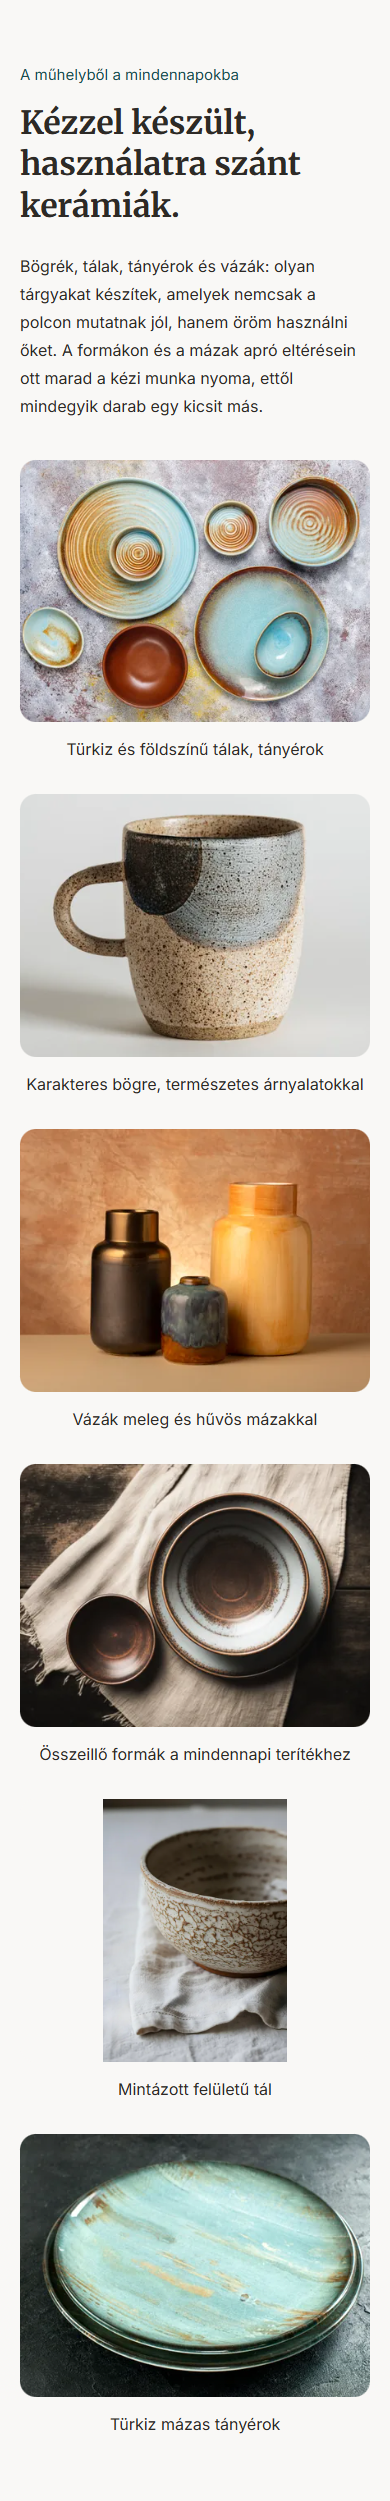
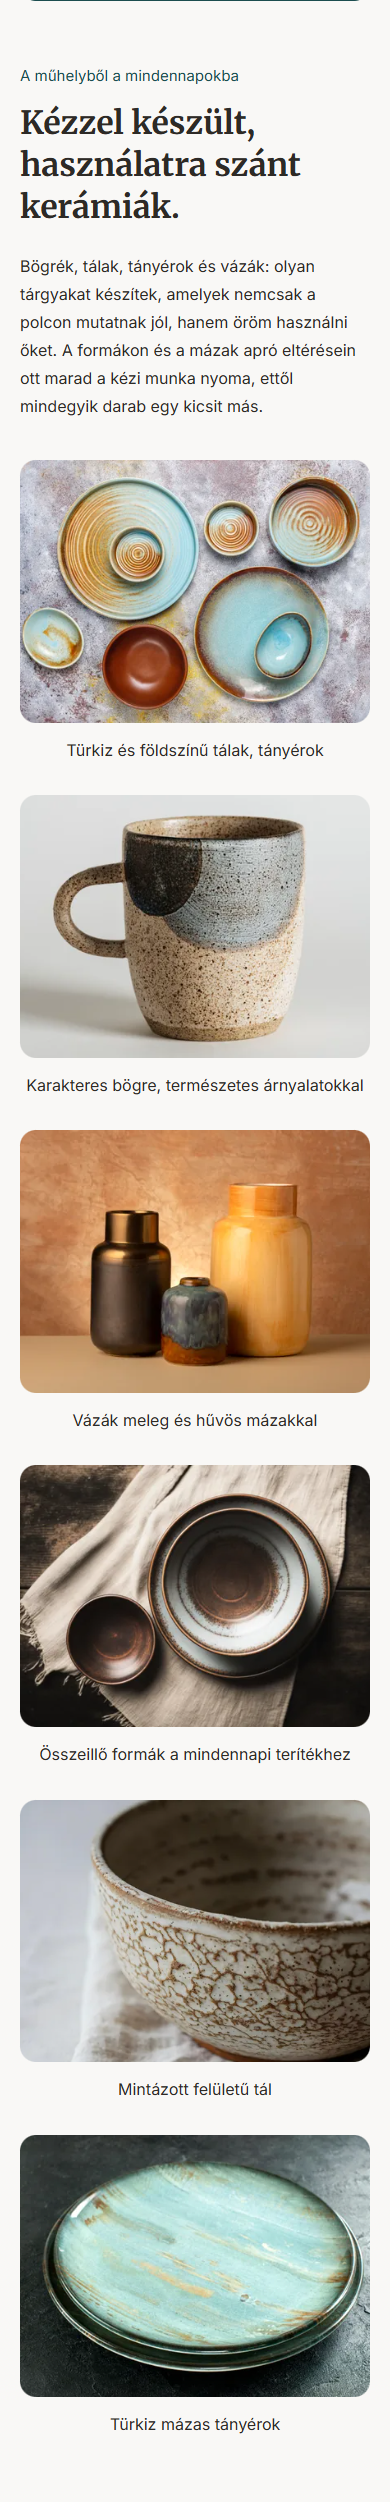
Refine workshop imagery and typography, verify mobile and tablet layouts

diff --git a/muhely.html b/muhely.html
@@ -19,9 +19,9 @@
 <main id="tartalom" tabindex="-1">
 <nav class="wrap breadcrumb" aria-label="Morzsanavigáció"><a href="koncepcio-1-udvari-muhely.html">Kezdőlap</a><span aria-hidden="true">/</span><span aria-current="page">Műhely</span></nav>
 <section class="wrap hero workshop-hero" aria-labelledby="muhely-cim"><div><p class="eyebrow">Ahol az ötleteid formát öltenek</p><h1 id="muhely-cim">Ismerd meg a műhelyt, ahol az alkotás öröme vár.</h1><p class="intro">Fehér Dóra vagyok, az Agyagpad alapítója. Szentendrei műhelyemben megmutatom, hogyan válhat egy darab agyagból saját alkotás és személyes emlék. Barátságos környezetben, szakmai segítséggel, a saját tempódban ismerkedhetsz meg a kerámiakészítéssel.</p><div class="actions"><a class="button" href="tanfolyamok.html">Megnézem a tanfolyamokat</a></div></div><figure class="photo-surround"><img class="photo hero-photo" src="images/webp/muhely-hero-800.webp" srcset="images/webp/muhely-hero-480.webp 480w, images/webp/muhely-hero-800.webp 800w, images/webp/muhely-hero-1200.webp 1200w, images/webp/muhely-hero-1600.webp 1600w" sizes="(min-width:600px) 870px, calc((100vw - 40px) * 1.875)" width="4784" height="3193" alt="Fehér Dóra kalapban, mindkét kezével vázát formáz a korongon." fetchpriority="high" decoding="async"><svg class="pottery-lines" viewBox="0 0 120 80" fill="none" stroke="currentColor" stroke-width="1.5" aria-hidden="true" focusable="false"><ellipse cx="60" cy="40" rx="52" ry="25"/><ellipse cx="60" cy="40" rx="40" ry="18"/><ellipse cx="60" cy="40" rx="27" ry="11"/></svg></figure></section>
-<section class="workshop-section workshop-story" aria-labelledby="tortenet-cim"><div class="wrap split-layout"><figure><img class="photo story-bowl" src="images/webp/muhely-kezben-tal-800.webp" srcset="images/webp/muhely-kezben-tal-480.webp 480w, images/webp/muhely-kezben-tal-800.webp 800w, images/webp/muhely-kezben-tal-1200.webp 1200w, images/webp/muhely-kezben-tal-1600.webp 1600w" sizes="(min-width:1296px) 576px, (min-width:900px) 44vw, calc(100vw - 40px)" width="3925" height="2685" alt="Két kéz egy kézzel formált, korongnyomokat őrző agyagtálat tart." loading="lazy" decoding="async"></figure><div class="workshop-copy"><p class="eyebrow">Kíváncsiságból hivatás</p><h2 id="tortenet-cim">Az alkotás szeretetét adom tovább.</h2><p>2009-ben sajátítottam el a korongozás alapjait. Már az első alkalmakon magával ragadott, ahogyan az agyag minden apró mozdulatra reagál. Azóta is folyamatosan képzem magam, új formákkal és mázakkal kísérletezem.</p><p>Népi iparművészként olyan használati tárgyakat készítek, amelyeknek helyük van a mindennapokban. Egy kézbe simuló bögre vagy egy kedvenc tál számomra attól különleges, hogy használat közben válik igazán a történetünk részévé.</p><p>Az Agyagpadot azért hoztam létre, hogy ezt az örömöt másokkal is megoszthassam. Szeretem látni, ahogy a kezdeti bizonytalanságot felváltja a kíváncsiság, majd megszületik az első saját forma.</p><dl class="studio-stats"><div><dt>szakmai tapasztalat</dt><dd>15+ év</dd></div><div><dt>tanítvány</dt><dd>1500+</dd></div><div><dt>alkotás</dt><dd>7000+</dd></div></dl></div></div></section>
+<section class="workshop-section workshop-story" aria-labelledby="tortenet-cim"><div class="wrap split-layout"><figure><img class="photo story-bowl" src="images/webp/muhely-kezben-tal-800.webp" srcset="images/webp/muhely-kezben-tal-480.webp 480w, images/webp/muhely-kezben-tal-800.webp 800w, images/webp/muhely-kezben-tal-1200.webp 1200w, images/webp/muhely-kezben-tal-1600.webp 1600w" sizes="(min-width:1296px) 576px, (min-width:900px) 44vw, calc(100vw - 40px)" width="3925" height="2685" alt="Kézben tartott, világos mázas kerámiatál." loading="lazy" decoding="async"></figure><div class="workshop-copy"><p class="eyebrow">Kíváncsiságból hivatás</p><h2 id="tortenet-cim">Az alkotás szeretetét adom tovább.</h2><p>2009-ben sajátítottam el a korongozás alapjait. Már az első alkalmakon magával ragadott, ahogyan az agyag minden apró mozdulatra reagál. Azóta is folyamatosan képzem magam, új formákkal és mázakkal kísérletezem.</p><p>Népi iparművészként olyan használati tárgyakat készítek, amelyeknek helyük van a mindennapokban. Egy kézbe simuló bögre vagy egy kedvenc tál számomra attól különleges, hogy használat közben válik igazán a történetünk részévé.</p><p>Az Agyagpadot azért hoztam létre, hogy ezt az örömöt másokkal is megoszthassam. Szeretem látni, ahogy a kezdeti bizonytalanságot felváltja a kíváncsiság, majd megszületik az első saját forma.</p><dl class="studio-stats"><div><dt>szakmai tapasztalat</dt><dd>15+ év</dd></div><div><dt>tanítvány</dt><dd>1500+</dd></div><div><dt>alkotás</dt><dd>7000+</dd></div></dl></div></div></section>
 <section class="workshop-section workshop-room" aria-labelledby="korulnezes-cim"><div class="wrap split-layout"><div class="workshop-copy"><p class="eyebrow">Nézz körül az Agyagpadban</p><h2 id="korulnezes-cim">Egy hely, ahol jó elidőzni.</h2><p>Korongok, agyagos eszközök, száradó edények és kész kerámiák: a műhelyben minden az alkotás körül forog. Itt közelről is megismerheted, hogyan lesz a puha agyagból formázás, szárítás és égetés után használható tárgy.</p><p>A foglalkozásokra előkészítem az alapanyagokat és az eszközöket. Érkezz kényelmes ruhában, amelyen egy kis agyagfolt sem gond, és engedd meg magadnak, hogy egy időre csak arra figyelj, ami a kezed alatt formálódik.</p></div><div class="room-photos"><figure class="room-main"><img class="photo " src="images/webp/muhely-polc-800.webp" srcset="images/webp/muhely-polc-480.webp 480w, images/webp/muhely-polc-800.webp 800w, images/webp/muhely-polc-1200.webp 1200w, images/webp/muhely-polc-1600.webp 1600w" sizes="(min-width:1296px) 576px, (min-width:900px) 44vw, calc(100vw - 40px)" width="5348" height="3565" alt="Műhelypolc bögrékkel, tányérokkal és száradó agyagedényekkel." loading="lazy" decoding="async"></figure><figure class="room-detail"><img class="photo " src="images/webp/muhely-korongozas-800.webp" srcset="images/webp/muhely-korongozas-480.webp 480w, images/webp/muhely-korongozas-800.webp 800w, images/webp/muhely-korongozas-1200.webp 1200w, images/webp/muhely-korongozas-1600.webp 1600w" sizes="(min-width:1296px) 320px, (min-width:900px) 25vw, calc(100vw - 40px)" width="6014" height="4010" alt="Agyagos kezek egy tál peremét formálják a fazekaskorongon." loading="lazy" decoding="async"></figure></div></div></section>
-<section class="workshop-attention" aria-labelledby="figyelem-cim"><div class="wrap attention-panel"><p class="eyebrow">Nem kell elsőre tökéletesnek lennie</p><h2 id="figyelem-cim">Az első mozdulatoktól <span class="title-line">melletted vagyok.</span></h2><div class="attention-grid"><div><h3>Bátran kezdhetsz bele.</h3><p>Nem szükséges előképzettség. Megmutatom az alapokat, <span class="desktop-line">és segítek, amikor elakadnál.</span></p></div><div><h3>Jut idő a kérdéseidre.</h3><p>A kezdő foglalkozásokon legfeljebb <span class="desktop-line">hatan alkotunk, így mindenkire jut <span class="desktop-line">személyes figyelem.</span></span></p></div><div><h3>A saját tempódban haladhatsz.</h3><p>Van helye a próbálkozásnak és az újrakezdésnek. Nem kell másokhoz mérned a munkádat.</p></div></div></div></section>
+<section class="workshop-attention" aria-labelledby="figyelem-cim"><div class="wrap attention-panel"><p class="eyebrow">Nem kell elsőre tökéletesnek lennie</p><h2 id="figyelem-cim">Az első mozdulatoktól <span class="title-line">melletted vagyok.</span></h2><div class="attention-grid"><div><h3>Bátran kezdhetsz bele.</h3><p>Nem szükséges előképzettség. <span class="desktop-line">Megmutatom az alapokat, <span class="desktop-line">és segítek, amikor elakadnál.</span></span></p></div><div><h3>Jut idő a kérdéseidre.</h3><p>A kezdő foglalkozásokon legfeljebb <span class="desktop-line">hatan alkotunk, így mindenkire jut <span class="desktop-line">személyes figyelem.</span></span></p></div><div><h3>A saját tempódban haladhatsz.</h3><p>Van helye a próbálkozásnak és az újrakezdésnek. Nem kell másokhoz <span class="keep-together">mérned a munkádat.</span></p></div></div></div></section>
 <section class="workshop-section workshop-gallery" id="keramiak" aria-labelledby="keramiak-cim"><div class="wrap"><header class="workshop-copy gallery-heading"><p class="eyebrow">A műhelyből a mindennapokba</p><h2 id="keramiak-cim">Kézzel készült, használatra szánt kerámiák.</h2><p>Bögrék, tálak, tányérok és vázák: olyan tárgyakat készítek, amelyek nemcsak a polcon mutatnak jól, hanem öröm használni őket. A formákon és a mázak apró eltérésein ott marad a kézi munka nyoma, ettől mindegyik darab egy kicsit más.</p></header><div class="ceramics-gallery"><figure><a class="gallery-open" href="images/webp/muhely-talak-tanyerok-1920.webp" data-gallery-link aria-label="Teljes fotó megnyitása: Türkiz és földszínű tálak, tányérok" aria-describedby="keramia-1-caption"><img class="photo " src="images/webp/muhely-talak-tanyerok-800.webp" srcset="images/webp/muhely-talak-tanyerok-480.webp 480w, images/webp/muhely-talak-tanyerok-800.webp 800w, images/webp/muhely-talak-tanyerok-1200.webp 1200w, images/webp/muhely-talak-tanyerok-1600.webp 1600w" sizes="(min-width:1296px) 384px, (min-width:1024px) 30vw, (min-width:600px) 45vw, calc(100vw - 40px)" width="5838" height="3893" alt="Különböző méretű türkiz és földszínű tálak, tányérok felülnézetben." loading="lazy" decoding="async"></a><figcaption id="keramia-1-caption">Türkiz és földszínű tálak, tányérok</figcaption></figure>
 <figure><a class="gallery-open" href="images/webp/muhely-pettyes-bogre-1920.webp" data-gallery-link aria-label="Teljes fotó megnyitása: Karakteres bögre, természetes árnyalatokkal" aria-describedby="keramia-2-caption"><img class="photo " src="images/webp/muhely-pettyes-bogre-800.webp" srcset="images/webp/muhely-pettyes-bogre-480.webp 480w, images/webp/muhely-pettyes-bogre-800.webp 800w, images/webp/muhely-pettyes-bogre-1200.webp 1200w, images/webp/muhely-pettyes-bogre-1600.webp 1600w" sizes="(min-width:1296px) 384px, (min-width:1024px) 30vw, (min-width:600px) 45vw, calc(100vw - 40px)" width="6517" height="4344" alt="Füles kerámiabögre pettyezett bézs felülettel és szürkéskék mázzal." loading="lazy" decoding="async"></a><figcaption id="keramia-2-caption">Karakteres bögre, természetes árnyalatokkal</figcaption></figure>
 <figure><a class="gallery-open" href="images/webp/muhely-vazak-1920.webp" data-gallery-link aria-label="Teljes fotó megnyitása: Vázák meleg és hűvös mázakkal" aria-describedby="keramia-3-caption"><img class="photo " src="images/webp/muhely-vazak-800.webp" srcset="images/webp/muhely-vazak-480.webp 480w, images/webp/muhely-vazak-800.webp 800w, images/webp/muhely-vazak-1200.webp 1200w, images/webp/muhely-vazak-1600.webp 1600w" sizes="(min-width:1296px) 384px, (min-width:1024px) 30vw, (min-width:600px) 45vw, calc(100vw - 40px)" width="5374" height="3583" alt="Három váza: sötétbarna, türkizes és meleg sárga mázzal." loading="lazy" decoding="async"></a><figcaption id="keramia-3-caption">Vázák meleg és hűvös mázakkal</figcaption></figure>

diff --git a/assets/muhely.css b/assets/muhely.css
@@ -16,12 +16,16 @@
 .workshop-page .room-photos img{aspect-ratio:3/2;object-fit:cover}
 .workshop-page .room-main img{object-position:50% 50%}
 .workshop-page .room-detail img{object-position:50% 45%}
+.workshop-page .room-detail{border:4px solid var(--paper);border-radius:calc(1rem + 4px)}
 .workshop-page .workshop-attention{padding-block:0}
 .workshop-page .attention-panel{padding:1.5rem;background:var(--teal);color:var(--paper);border-radius:1rem}
 .workshop-page .attention-panel h2,.workshop-page .attention-panel h3,.workshop-page .attention-panel .eyebrow{color:var(--paper)}
 .workshop-page .attention-panel h2{max-width:27ch}
 .workshop-page .title-line{display:block}
 .workshop-page .desktop-line{display:inline}
+.workshop-page .attention-grid>div{container-type:inline-size}
+.workshop-page .keep-together{white-space:normal}
+@container(min-width:11rem){.workshop-page .keep-together{white-space:nowrap}}
 .workshop-page .attention-grid{display:grid;grid-template-columns:minmax(0,1fr);gap:2rem;margin-top:2rem}
 .workshop-page .attention-grid h3{font-size:1.25rem;margin-bottom:.75rem}
 .workshop-page .attention-grid p{font-size:1rem;line-height:1.75}
@@ -29,7 +33,7 @@
 .workshop-page .gallery-heading h2{max-width:25ch}
 .workshop-page .ceramics-gallery{grid-template-columns:minmax(0,1fr);gap:2rem}
 .workshop-page .ceramics-gallery img{width:100%;aspect-ratio:4/3;object-fit:cover;object-position:50% 50%}
-.workshop-page .ceramics-gallery .gallery-bowl{object-fit:contain;background:var(--paper)}
+.workshop-page .ceramics-gallery .gallery-bowl{object-fit:cover;object-position:50% 30%}
 .workshop-page .ceramics-gallery figcaption{margin-top:.875rem;font-size:1rem;text-align:center}
 .workshop-page .gallery-open{display:block;border-radius:1rem;cursor:zoom-in}
 .workshop-page .gallery-open:hover{outline:2px solid var(--clay);outline-offset:4px}
@@ -55,9 +59,9 @@
  .workshop-page .workshop-hero{grid-template-columns:minmax(0,1.1fr) minmax(0,.9fr)}
  .workshop-page .workshop-hero .photo-surround{justify-self:end}
  .workshop-page .split-layout{grid-template-columns:repeat(2,minmax(0,1fr));gap:3rem}
- .workshop-page .room-photos{grid-template-columns:.7fr 1fr}
+ .workshop-page .room-photos{grid-template-columns:.7fr 1fr;gap:0}
  .workshop-page .room-main{grid-column:1 / -1}
- .workshop-page .room-detail{grid-column:2}
+ .workshop-page .room-detail{grid-column:1 / -1;justify-self:start;width:58%;margin-top:-2.5rem;z-index:1}
  .workshop-page .attention-panel{padding:3rem}
  .workshop-page .attention-grid{grid-template-columns:repeat(3,minmax(0,1fr));gap:2rem;margin-top:2.5rem}
  .workshop-page .ending-layout{grid-template-columns:minmax(0,1fr) auto;gap:3rem}

diff --git a/koncepcio-1-udvari-muhely.html b/koncepcio-1-udvari-muhely.html
@@ -16,7 +16,7 @@
       <a class="brand" href="#kezdo" aria-label="Agyagpad kezdőlap"><img src="images/logo/Agyagpad-logo-transparent.svg" width="1137" height="285" alt=""></a>
       <button class="menu" type="button" aria-controls="oldalmenu" aria-expanded="false"><span class="menu-icon" aria-hidden="true"></span><span class="menu-label">Menü</span></button>
       <div class="nav-group" id="oldalmenu">
-        <nav class="site-nav" aria-label="Fő navigáció"><a href="#kezdo">Kezdőlap</a><a href="tanfolyamok.html">Tanfolyamok</a><a href="#muhely">Műhely</a><a href="#kapcsolat">Kapcsolat</a></nav>
+        <nav class="site-nav" aria-label="Fő navigáció"><a href="#kezdo">Kezdőlap</a><a href="tanfolyamok.html">Tanfolyamok</a><a href="muhely.html">Műhely</a><a href="#kapcsolat">Kapcsolat</a></nav>
         <a class="button header-cta" href="#kapcsolat">Érdeklődöm</a>
       </div>
     </div>

diff --git a/adatkezeles.html b/adatkezeles.html
@@ -25,7 +25,7 @@
         <nav class="site-nav" aria-label="Fő navigáció">
 <a href="koncepcio-1-udvari-muhely.html#kezdo">Kezdőlap</a>
 <a href="tanfolyamok.html">Tanfolyamok</a>
-<a href="koncepcio-1-udvari-muhely.html#muhely">Műhely</a>
+<a href="muhely.html">Műhely</a>
 <a href="koncepcio-1-udvari-muhely.html#kapcsolat">Kapcsolat</a>
 </nav>
         <a class="button header-cta" href="koncepcio-1-udvari-muhely.html#kapcsolat">Érdeklődöm</a>

diff --git a/tanfolyamok.html b/tanfolyamok.html
@@ -25,7 +25,7 @@
         <nav class="site-nav" aria-label="Fő navigáció">
 <a href="koncepcio-1-udvari-muhely.html#kezdo">Kezdőlap</a>
 <a href="tanfolyamok.html" aria-current="page">Tanfolyamok</a>
-<a href="koncepcio-1-udvari-muhely.html#muhely">Műhely</a>
+<a href="muhely.html">Műhely</a>
 <a href="#kapcsolat">Kapcsolat</a>
 </nav>
         <a class="button header-cta" href="#kapcsolat">Érdeklődöm</a>

diff --git a/tervezes/muhely-terv.md b/tervezes/muhely-terv.md
@@ -13,7 +13,7 @@ Az új elrendezés az assets/muhely.css fájlba került. A nagyító működése
 1. Közös fejléc, aktív Műhely menüpont. Érdeklődöm → koncepcio-1-udvari-muhely.html#kapcsolat. Diszkrét Kezdőlap / Műhely morzsamenü.
 2. Személyes hero: szöveg balra, hero1 fotó jobbra; terrakotta H1, türkiz kicker, egyetlen türkiz keret és köríves motívum. CTA → tanfolyamok.html.
 3. Dóra története: bézs felületen balra a kézben tartott tál, jobbra a három bekezdés. A 15+ év, 1500+, 7000+ számhármas a szöveg alatt, ezen az oldalon egyszer szerepel.
-4. Műhelybemutató: törtfehér felület, balra szöveg, jobbra domináns polcfotó és kisebb korongozási részlet. A két kép egymást és a szöveget nem takarja; mobilon egymás alá kerülnek.
+4. Műhelybemutató: törtfehér felület, balra szöveg, jobbra domináns polcfotó és kisebb korongozási részlet. Asztalon a kisebb kép 40 px-rel ráfed a polcfotó alsó bal előterére, a képoszlopon belül, a hangsúlyos tárgyakat szabadon hagyva. Törtfehér, 4 px-es keretet kap; 900 px alatt a képek átfedés nélkül követik egymást.
 5. Személyes figyelem: közös türkiz blokk törtfehér tipográfiával, három állítás, képek és belső kártyák nélkül. Asztalon három, kisebb kijelzőn egy oszlop.
 6. Alkotások: megőrzött #keramiak horgony. Hat kész tárgyfotó a kért sorrendben, képaláírásokkal, árak és vásárlási gombok nélkül. 1024 px-től három, 600 px-től kettő, alatta egy oszlop.
 7. Most rajtad a sor: rövid, bézs hátterű lezárás; CTA → tanfolyamok.html.
@@ -40,7 +40,7 @@ Mindegyikhez 480, 800, 1200 és 1600 px széles, teljes eredeti képarányú Web
 
 A hero 4:5 képhelyet használ, teljes forrásmagassággal, 30%-os vízszintes tárgypozícióval. Csak oldalt vágunk; a kalapból az eredeti fotón látható rész, az arc, mindkét kéz és a váza megmarad. A képfelbontás kiválasztása a portréhely kitöltéséhez szükséges forrásszélességgel számol. Nincs sötétítés.
 
-A galéria keretei egységesen 4:3 arányúak. A bögre és vázák természetesen elférnek a kivágásban. A mintázott tál álló fotóját contain kitöltés tartja teljes egészében láthatóan, a meglévő törtfehér háttéren. Nincs további türkiz galériadekoráció.
+A galéria keretei egységesen 4:3 arányúak. A bögre és vázák természetesen elférnek a kivágásban. A mintázott tál álló fotója is cover kitöltéssel tölti ki a 4:3 keretet, 50% 30% tárgypozícióval. A kivágás a peremet, az ívelt falat és a jellegzetes mintázatot emeli ki; nagyításkor a teljes álló fotó jelenik meg. Nincs további türkiz galériadekoráció.
 
 ## Nagyító és billentyűzet
 
@@ -55,3 +55,13 @@ Friss képek: beadas/jelenlegi-oldal/muhely-asztali.png, muhely-mobil.png, muhel
 ## Böngészőmegjegyzések szerinti tipográfiai pontosítás
 
 A figyelemblokk címében a „melletted vagyok.” új sorban indul. Asztalon az „és segítek”, a „hatan” és a „személyes” szintén új sorban kezdődik; a lezárásban a második, kisbetűs „akár” került új sorba. A bekezdések célzott sortörései 900 px alatt inline-ra váltanak, így mobilon természetes marad a tördelés. A galéria mind a hat képaláírása középre igazított. Szöveg, kép, navigáció és nagyítóműködés nem változott. A módosítás az eredeti 1254 px-es nézetben és kisebb kijelzőkön is ellenőrzött.
+
+A közös fejléc Műhely menüpontja minden aktív oldalon a muhely.html aloldalra vezet. A főoldali #muhely rövid bemutatkozó szakasz és a hozzá tartozó belső hivatkozások megmaradnak.
+
+## Célzott képfinomítás
+
+A történetnél használt hangulatkép alternatív szövege: „Kézben tartott, világos mázas kerámiatál.” A hero címe, fotója és elrendezése változatlan. A tálfotó kitöltő kivágása és a műhelyfotók kompaktabb, átfedő elrendezése 390, 768, 1024 és 1440 px-en vizuálisan is ellenőrzött; a nagyító változatlanul a teljes, eredeti képarányú WebP-t mutatja.
+
+A figyelemblokkban a Megmutatom az alapokat új sorban indul asztalon; a mérned a munkádat kifejezés egy sorban marad, ha a rendelkezésre álló szélesség engedi. Erősen nagyított mobilnézetben szabadon törhet a túlcsordulás elkerülésére.
+
+Végső reszponzív arányellenőrzés: tíz nézet sikeres, az álló és fekvő tabletelrendezés vizuálisan is ellenőrizve. A 768 és 1024 px-es teljes oldalképek a beadas/jelenlegi-oldal/muhely-tablet-allo.png és muhely-tablet-fekvo.png fájlokba kerültek. További designmódosítás nem volt szükséges.

diff --git a/tervezes/design-system.md b/tervezes/design-system.md
@@ -1,6 +1,6 @@
 # Agyagpad – design system
 
-Verzió: 4.12 · 2026. november 14.
+Verzió: 4.13 · 2026. november 14.
 Állapot: az Udvari műhely aktuális specifikációja. Kiindulás: a jóváhagyott 16527e0 változat; november 14-i tartalmi továbbfejlesztés, kártyaélménysorok, Dóra-számadatok és előkészített valódi űrlapküldés. A korábbi türkiz gombos irányt ez a dokumentum felülírja.
 
 ## Források és hatókör
@@ -185,4 +185,6 @@ Az asztali programsorok közös, a leghosszabb szöveghez növekvő rácssormaga
 
 A személyes Műhely oldal megtartja az arculati hat színt, a Merriweather–Inter betűpárt, 1200 px tartalmi maximumot és a közös fejlécet/láblécet. Saját stíluslapja assets/muhely.css; a főoldal és a Tanfolyamok stílusai változatlanok. Hat szakasz, változatos kép–szöveg sorrend, bézs történet és lezárás, türkiz személyes figyelemblokk. Szakasztérköz: a meglévő 64/96 px változó; hasábköz: 40/48 px. A Dóra-számhármas egyszer szerepel. A türkiz hero-keret és motívum csak a herónál jelenik meg.
 
-Galéria: 4:3 keretek, 32 px rések, 1024 px-től három, 600 px-től kettő, alatta egy oszlop. A mintázott álló tálfotó contain kitöltéssel teljes egészében megmarad; a többi fotó ellenőrzött cover kivágású. Nincs statikus dekoratív galériakeret. A natív dialog a teljes, 1920 px-es WebP-ket mutatja vágás nélkül, bezárógombbal, Escape-kezeléssel és visszaadott fókusszal. A háttér ugyanannak a grafitszínnek az áttetsző változata. Részletes terv és pontos forráslista: muhely-terv.md. Szövegek: muhely-szovegek.md.
+Galéria: 4:3 keretek, 32 px rések, 1024 px-től három, 600 px-től kettő, alatta egy oszlop. A mintázott álló tálfotó is cover kitöltésű, 50% 30% tárgypozícióval; nagyítóban változatlanul teljes képaránnyal látható. Nincs statikus dekoratív galériakeret. A natív dialog a teljes, 1920 px-es WebP-ket mutatja vágás nélkül, bezárógombbal, Escape-kezeléssel és visszaadott fókusszal. A háttér ugyanannak a grafitszínnek az áttetsző változata. Részletes terv és pontos forráslista: muhely-terv.md. Szövegek: muhely-szovegek.md.
+
+Műhelyfotók célzott finomítása: a kisebb korongozós kép 900 px-től 40 px átfedést kap a nagy polcfotó alsó bal előterén, 58%-os szélességgel és 4 px-es törtfehér kerettel. A képpár a képoszlopon belül marad; keskenyebb nézetben átfedés nélkül, 16 px közökkel követik egymást. A herót és a többi szakaszt ez a módosítás nem érinti.

diff --git a/tervezes/aktualis-oldalterkep.md b/tervezes/aktualis-oldalterkep.md
@@ -36,3 +36,5 @@ Az adatkezelési oldal a még inaktív fogadót és a tényleges üzemeltetői a
 Az eredeti drótvázak történeti folyamatképek maradnak. A beadas/tervezesi-folyamat/03-aktualis-oldalterkep.png az aktuális szerkezetet mutatja; a beadas/jelenlegi-oldal mappában mobil- és asztali felvételek vannak. A Tanfolyamok újratervezését a tanfolyamok-asztali.png és tanfolyamok-mobil.png dokumentálja; a korábbi összesített oldaltérképkép a korábbi szerkezet folyamatképe. A vizsgakiírás legalább három oldalt vagy szekciót kér; a négy főoldali szekció ezt teljesíti. A valódi űrlapot a felhasználó külön projektkövetelménnyé tette; az éles próbája még hátravan.
 
 Bemutatkozó elrendezés finomítása: a két bekezdés alatt 24 px-re a három számadat zárja a szövegoszlopot; külön CTA nincs. A műhelyboltig asztalon 80 px, mobilon 48 px térköz van. A portré eredeti arányú és a tartalomhoz méretezett. A körív csak a portrénál marad, a kerámiás képnél eltolt keret szerepel. A műhelybolt kerámiagombja továbbra is nyíl nélkül a muhely.html#keramiak célra mutat.
+
+A közös fejléc Műhely menüpontja minden aktív oldalon a muhely.html aloldalra vezet. A főoldali #muhely rövid bemutatkozó szakasz és a hozzá tartozó belső hivatkozások megmaradnak.

diff --git a/.webprojekt/brief.md b/.webprojekt/brief.md
@@ -1,6 +1,6 @@
 # Projektbrief: Agyagpad kerámiaműhely
 
-Frissítve: 2026. november 14. Aktuális tartalmi forrás: szovegek.md 3.6; arculat: design-system.md 4.12.
+Frissítve: 2026. november 14. Aktuális tartalmi forrás: szovegek.md 3.6; arculat: design-system.md 4.13.
 
 ## Ügyfél és keret
 

diff --git a/tervezes/agyagpad-projektbrief.md b/tervezes/agyagpad-projektbrief.md
@@ -1,6 +1,6 @@
 # Projektbrief: Agyagpad kerámiaműhely
 
-Frissítve: 2026. november 14. Aktuális tartalmi forrás: szovegek.md 3.6; arculat: design-system.md 4.12.
+Frissítve: 2026. november 14. Aktuális tartalmi forrás: szovegek.md 3.6; arculat: design-system.md 4.13.
 
 ## Ügyfél és keret
 

diff --git a/tervezes/szovegek.md b/tervezes/szovegek.md
@@ -9,7 +9,7 @@ Az Agyagpad és Fehér Dóra fiktív. A 2009-es indulás, a népi iparművész m
 
 - Kezdőlap: `#kezdo`
 - Tanfolyamok: `tanfolyamok.html`
-- Műhely: `#muhely`
+- Műhely: `muhely.html`
 - Kapcsolat: `#kapcsolat`
 - Érdeklődöm: `#kapcsolat`
 
